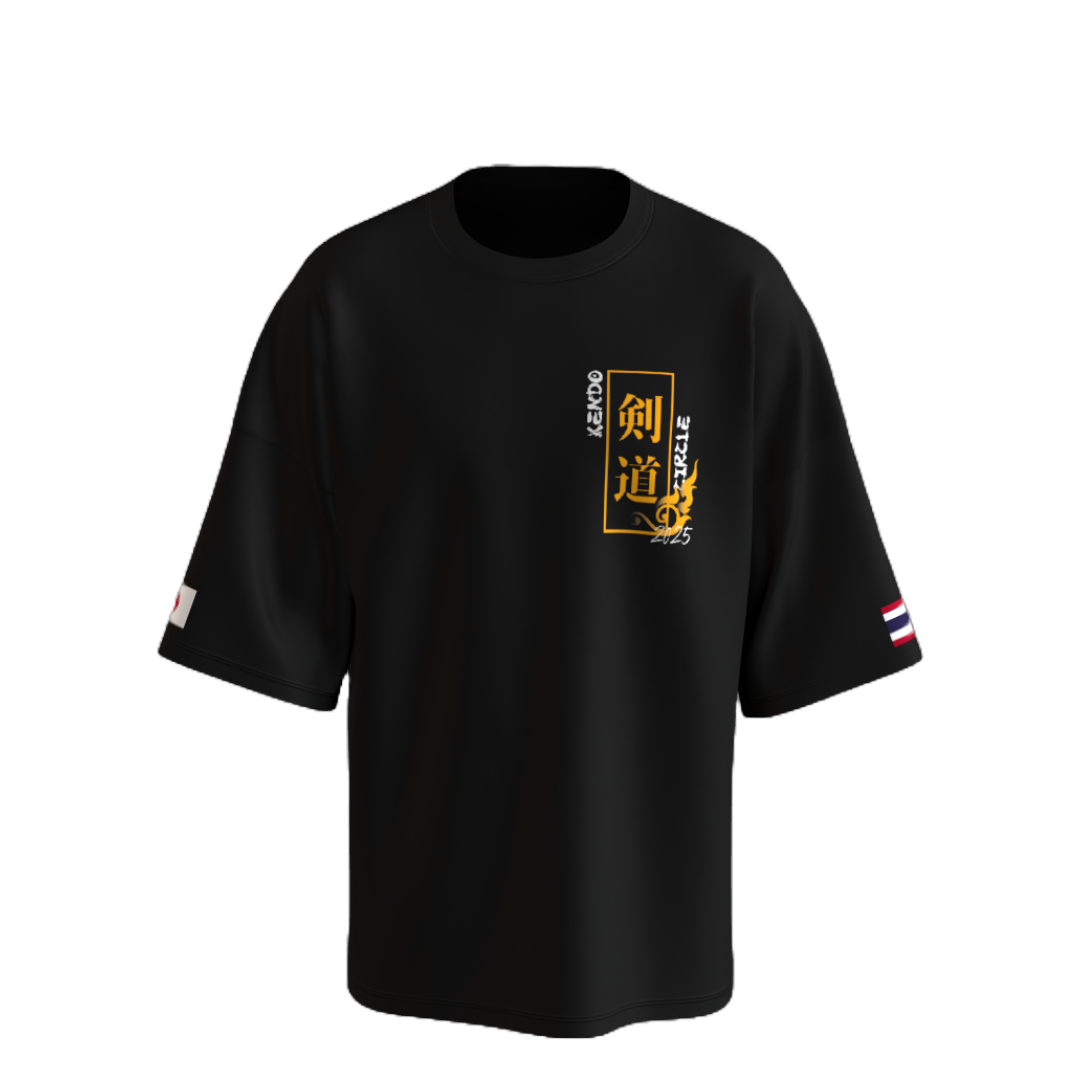
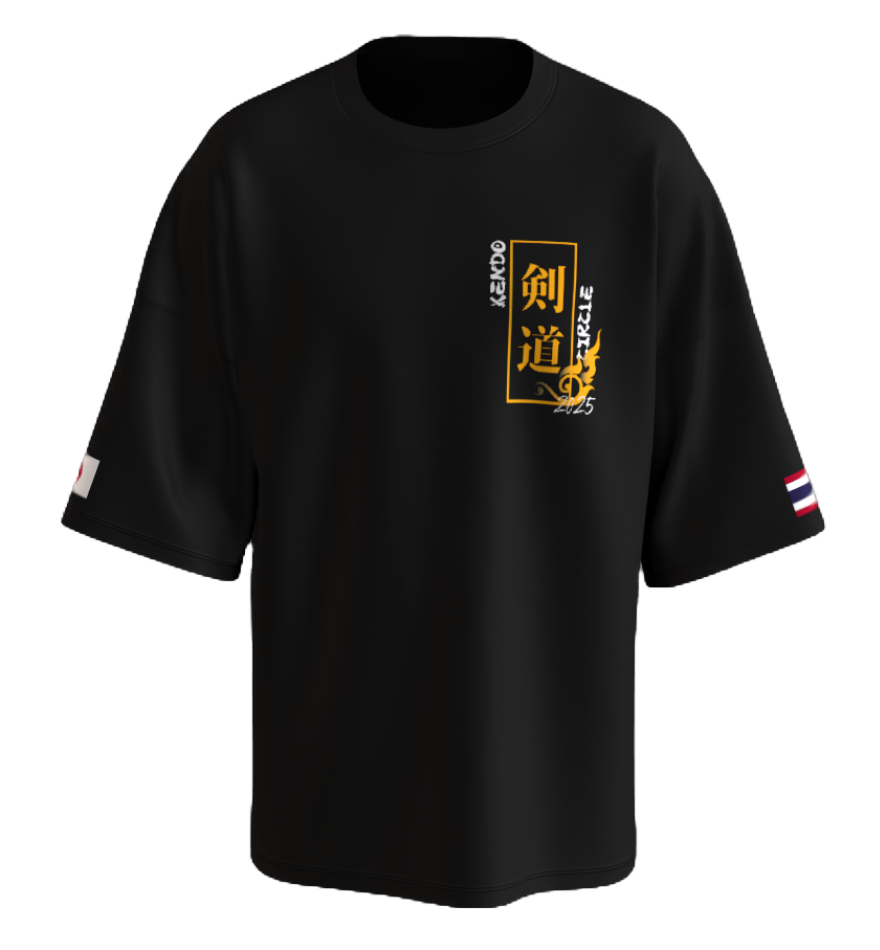
fix responsive

Changed region(s): [[0.0614, 0.0305, 0.9511, 0.9768], [0.5216, 0.2442, 0.7057, 0.5189]]

diff --git a/src/pages/Home.tsx b/src/pages/Home.tsx
@@ -13,39 +13,45 @@ function Home() {
             <Navibar/>
 
             <div className="px-3 pt-20">
-                <h1 className="catch">Digital <br></br> Designer</h1>
-                <p className="catch-b pb-5 pl-2 pt-4">experienced in<br></br> Web-App Design,<br></br> UX / UI, and Frontend Development.</p>
+                <div className="md:p-10">
+                    <div className="md:flex md:items-end md:justify-start">
+                        <h1 className="catch md:relative">Digital <br></br> Designer</h1>
+                        <p className="catch-b pb-5 pl-2 pt-4">experienced in<br></br> Web-App Design,<br></br> UX / UI, and Frontend Development.</p>
+                    </div>
 
-                <div>
-                    <p className="catch-sub pl-2">I’m passionate about crafting clear interfaces that help users focus on what really matters.</p>
+                    <div>
+                        <p className="catch-sub pl-2 pt-12">I’m passionate about crafting clear interfaces that help users focus on what really matters.</p>
+                    </div>
                 </div>
 
                 <hr className="border-t-1 my-6 border-black"/>
-                <div className="flex ">
-                    <Play fill="black"/>
-                    <p className="catch-sub pl-2">I can help you with </p>
-                </div>
-                <div className="pl-2">
-                    <div className="flex items-end gap-6 pt-8">
-                        <h1 className="catch-num">01.</h1>
-                        <div>
-                            <p className="catch-title mb-1">Design</p>
-                        </div>
+                <div className="md:p-10">
+                    <div className="flex ">
+                        <Play fill="black"/>
+                        <p className="catch-sub pl-2">I can help you with </p>
                     </div>
-                    <p className="catch-b pt-4">I make web designs, posters, and shirt designs that align with the user needs and requirements.</p>
-                </div>
-                <div className="pl-2">
-                    <div className="flex items-end gap-6 pt-8">
-                        <h1 className="catch-num">02.</h1>
-                        <div>
-                            <p className="catch-title mb-1">Code</p>
+                    <div className="pl-2">
+                        <div className="flex items-end gap-6 pt-8">
+                            <h1 className="catch-num">01.</h1>
+                            <div>
+                                <p className="catch-title mb-1">Design</p>
+                            </div>
                         </div>
+                        <p className="catch-b pt-4">I make web designs, posters, and shirt designs that align with the user needs and requirements.</p>
                     </div>
-                    <p className="catch-b pt-4">Beside designing side, I also involve in the frontend development such as the landing page, and e-invitation.</p>
+                    <div className="pl-2">
+                        <div className="flex items-end gap-6 pt-8">
+                            <h1 className="catch-num">02.</h1>
+                            <div>
+                                <p className="catch-title mb-1">Code</p>
+                            </div>
+                        </div>
+                        <p className="catch-b pt-4">Beside designing side, I also involve in the frontend development such as the landing page, and e-invitation.</p>
+                    </div>
                 </div>
                 {/* <hr className="border-t-1 my-6 border-black"/> */}
                 {/* Engineernest */}
-                <div className="bg-black text-white mt-6 pb-6">
+                <div className="bg-black text-white mt-6 pb-6 md:flex md:p-16">
                     <img src={EnMockup1} alt="" />
                     <div className='px-6'>
                         <h1 className='project-title text-4xl items-start'>Engineernest</h1>
@@ -59,7 +65,7 @@ function Home() {
                     </div>
                 </div>
                 {/* KIT */}
-                <div className="bg-white">
+                <div className="bg-white md:flex md:p-16 md:flex-row-reverse">
                     <img src={KITMockup1} alt="" />
                     <div className='px-6'>
                         <h1 className='project-title text-4xl'>KIT Website</h1>
@@ -73,7 +79,7 @@ function Home() {
                     </div>
                 </div>
                 {/* E-Invitation */}
-                <div className="bg-black text-white mt-6 pb-6">
+                <div className="bg-black text-white mt-6 pb-6 md:flex md:p-16">
                     <img src={EinMockup1} alt="" />
                     <div className='px-6'>
                         <h1 className='project-title text-4xl items-start'>E-Invitation</h1>
@@ -87,8 +93,8 @@ function Home() {
                     </div>
                 </div>
                 {/* Kendo */}
-                <div className="bg-white">
-                    <img src={ShirtMockup1} alt="" />
+                <div className="bg-white md:flex md:p-16 md:flex-row-reverse">
+                    <img src={ShirtMockup1} className="md:w-72 md:h-auto" alt="" />
                     <div className='px-6'>
                         <h1 className='project-title text-4xl'>Kendo Shirt</h1>
                         <p className='catch-b mt-6'>Designing the t-shirt for Japanese Kendo Club in Thailand that showcases both cultures.</p>
@@ -101,7 +107,7 @@ function Home() {
                     </div>
                 </div>
 
-                <hr className="border-t-1 my-6 border-black"/>
+                <hr className="border-t-1 my-6 md:mt-0 border-black"/>
 
                 <div className="px-6 pb-6">
                     <p className="catch-sub mb-4">Thank you for your interest in my work!</p>

diff --git a/src/index.css b/src/index.css
@@ -73,3 +73,48 @@ html, body, #root {
   font-style: normal;
 }
 
+@media (min-width: 320px) {
+  button {
+    width: 245px;
+  }
+}
+
+
+@media (min-width: 375px) {
+  button {
+    width: 310px;
+  }
+}
+
+@media (min-width: 425px) {
+  .catch {
+    font-size: 6rem;
+  }
+  .catch-b {
+    font-size: 0.9rem;
+  }
+  button {
+    width: fit-content;
+  }
+}
+
+@media (min-width: 768px) {
+  img {
+    width: 400px;
+  }
+  .catch {
+    font-size: 7rem;
+  }
+  .catch-b {
+    font-size: 1rem;
+  }
+}
+
+@media (min-width: 1024px) {
+  .catch {
+    font-size: 12rem;
+  }
+  .catch-b {
+    font-size: 1.2rem;
+  }
+}
